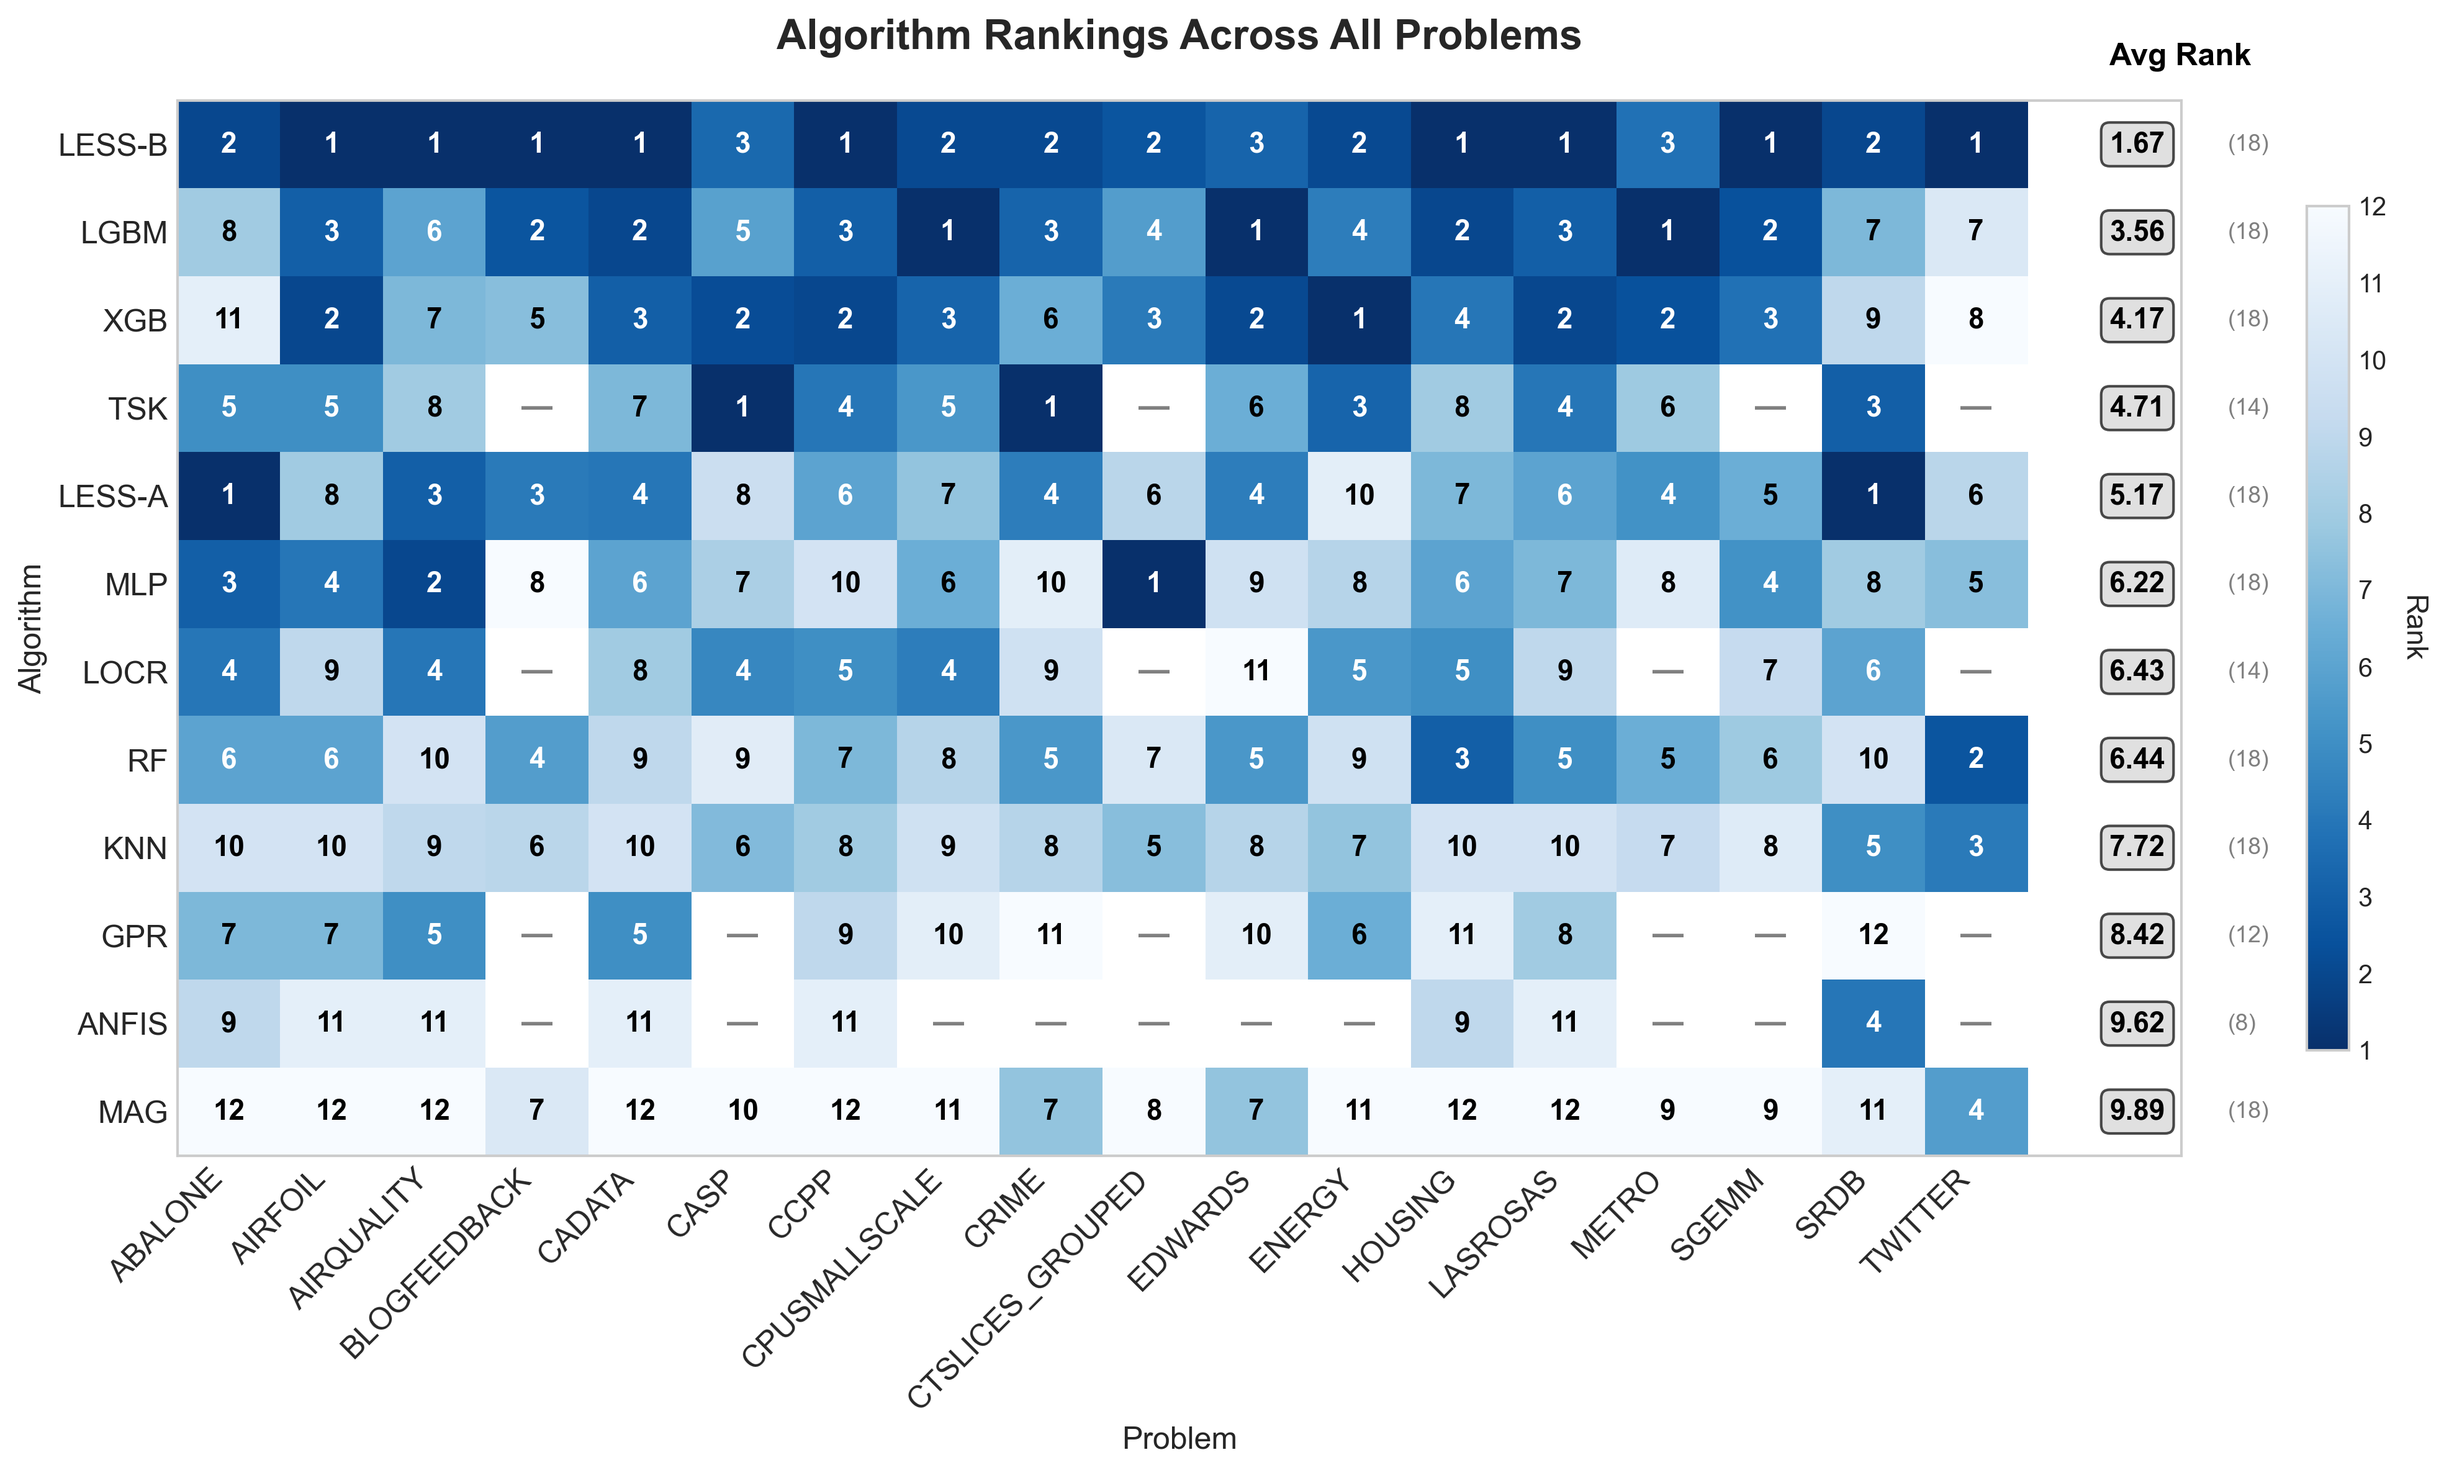
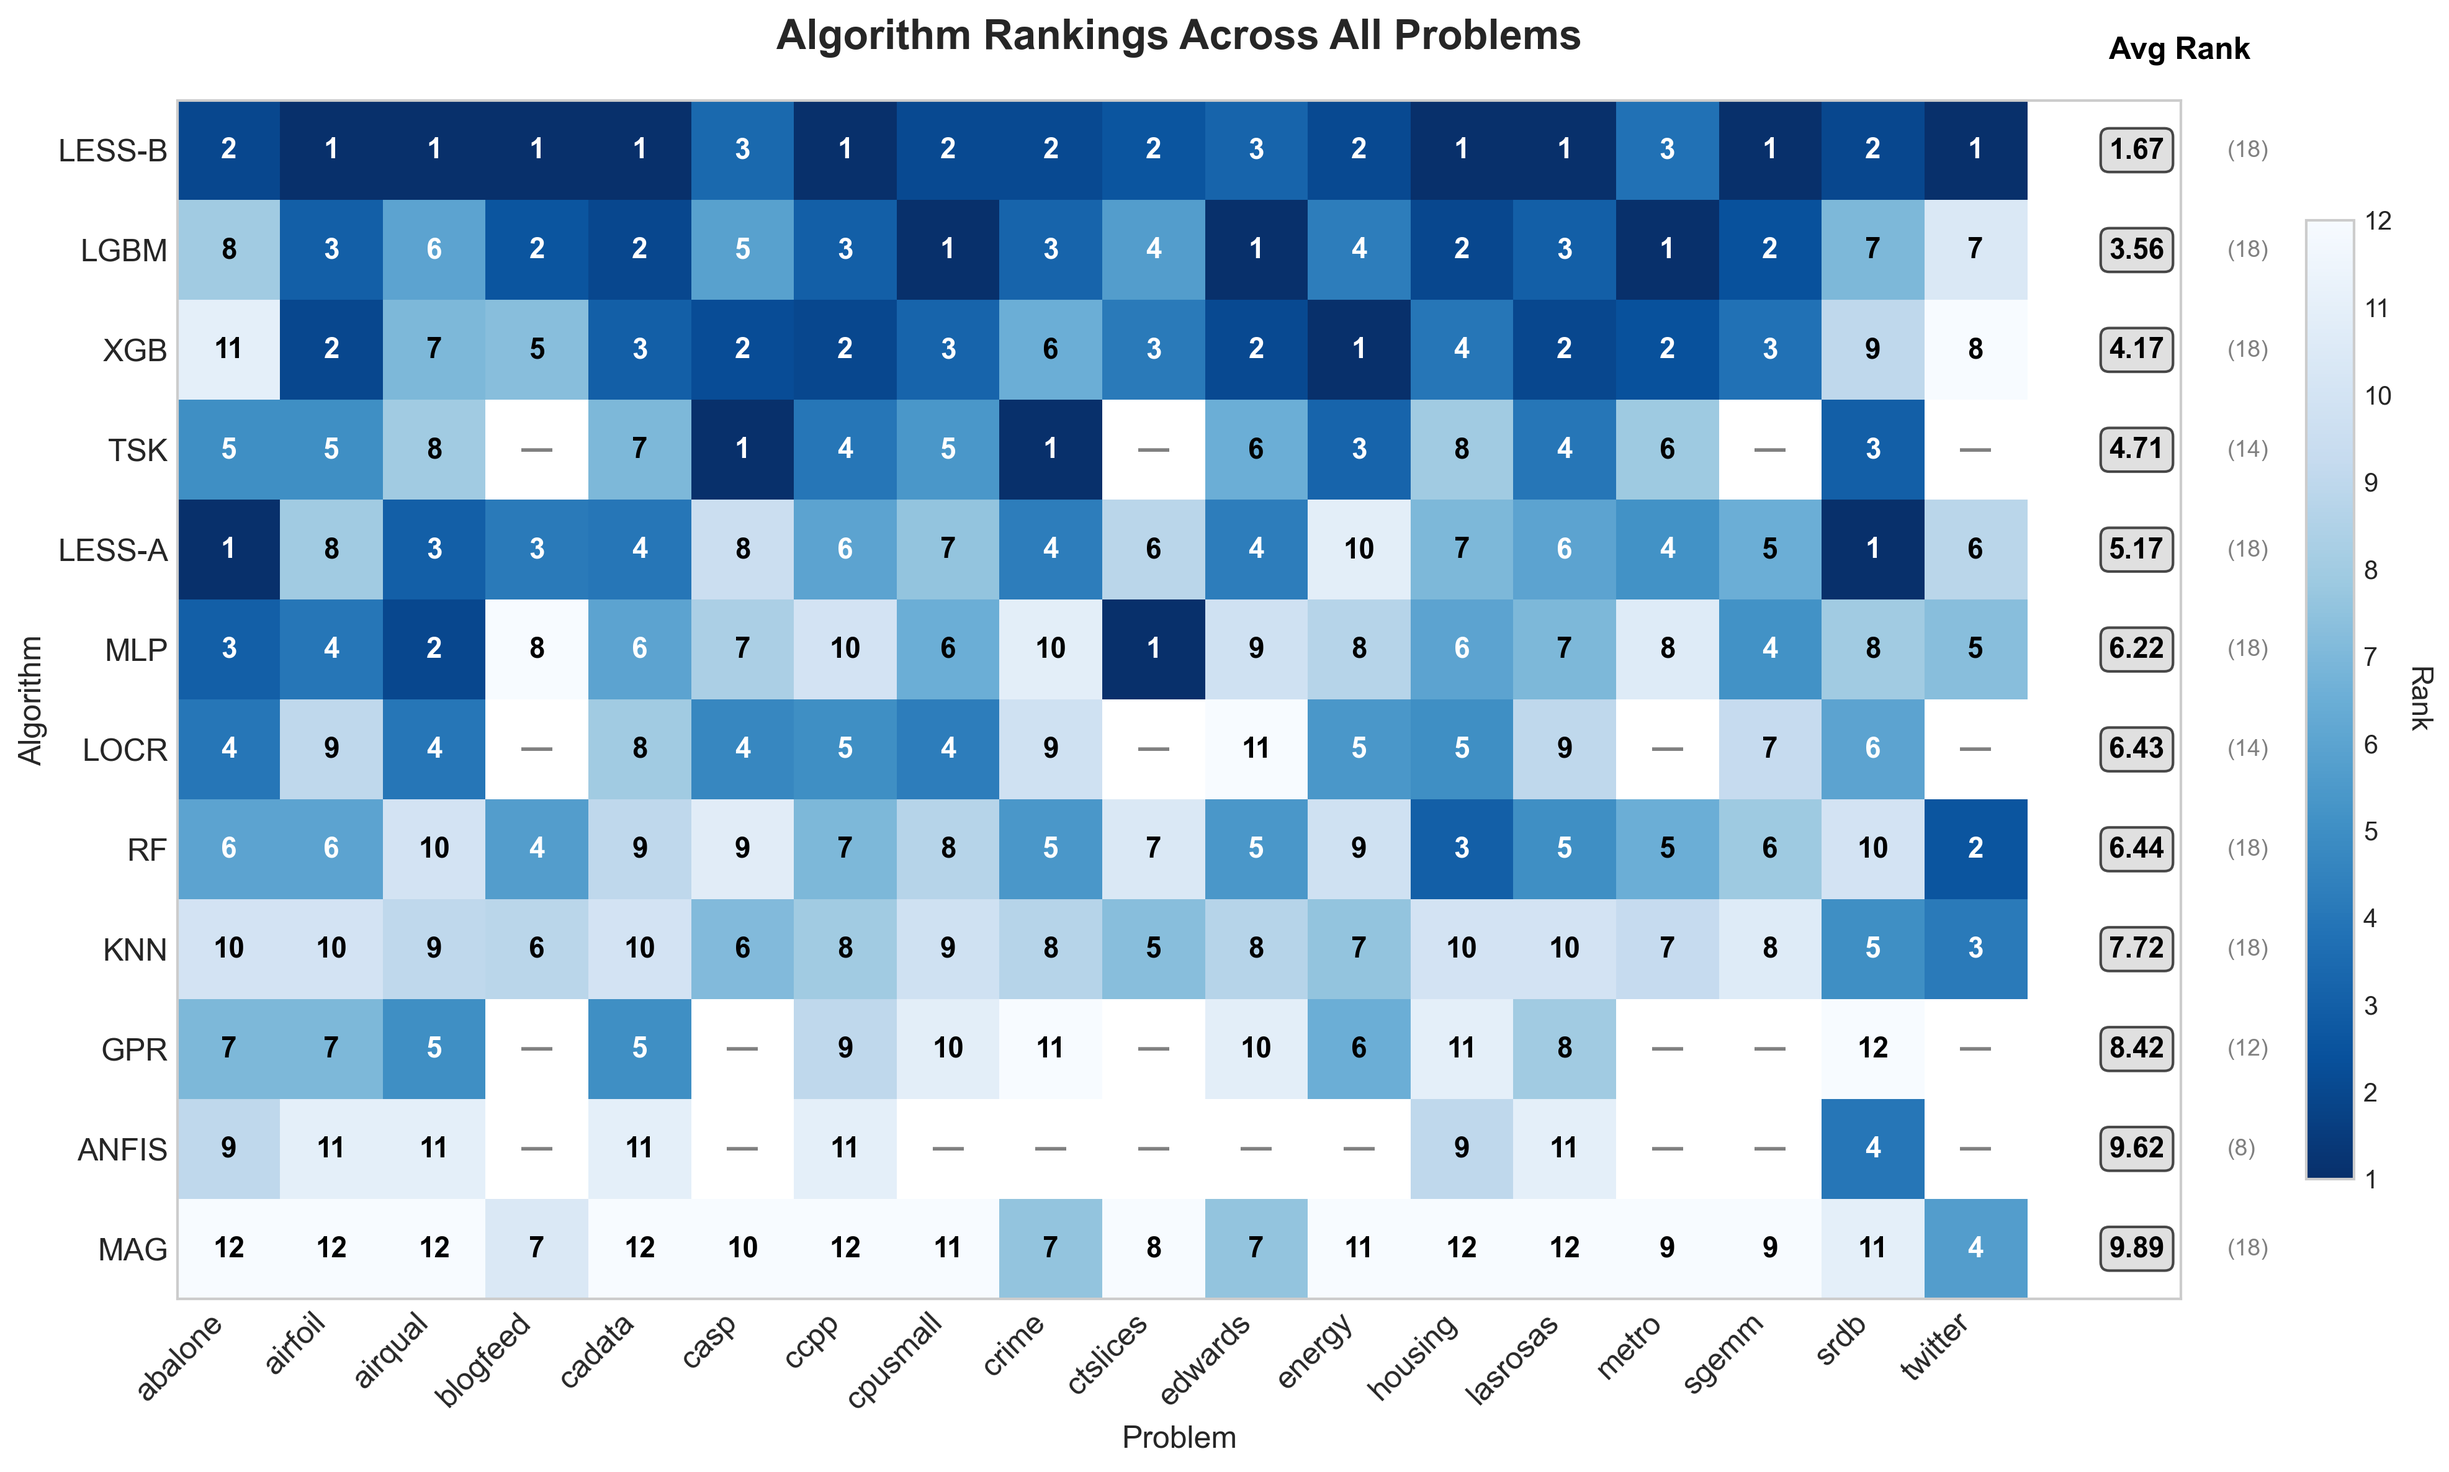
R3: dataset names in figures
Figures now use the dataset names of the text (airqual, blogfeed, cpusmall, ctslices, lowercase elsewhere). Rankings and timing figures regenerated; results unchanged.

diff --git a/plot_funcs/plot.py b/plot_funcs/plot.py
@@ -11,6 +11,7 @@ import matplotlib.pyplot as plt
 import numpy as np
 import seaborn as sns
 
+from src.names import display_name
 from src.problems import ALL_PROBLEMS
 from src.resultdirs import MAIN
 
@@ -173,7 +174,8 @@ def plot_rankings(algorithms, problems, ranking_matrix, avg_rankings,
 
     # Fix x-axis labels - Set ticks and labels properly
     ax.set_xticks(range(len(problems)))
-    ax.set_xticklabels(problems, rotation=45, ha="right", fontsize=12)
+    ax.set_xticklabels([display_name(p) for p in problems], rotation=45, ha="right",
+                       fontsize=12)
     ax.set_yticks(range(len(algorithms)))
     ax.set_yticklabels(algorithms, fontsize=12)
     ax.set_xlabel("Problem", fontsize=12)
@@ -368,7 +370,8 @@ def plot_scores(algorithms, problems, score_matrix, avg_rankings, title_suffix="
 
     # Customize axes
     ax.set_xticks(range(len(problems)))
-    ax.set_xticklabels(problems, rotation=45, ha="right", fontsize=10)
+    ax.set_xticklabels([display_name(p) for p in problems], rotation=45, ha="right",
+                       fontsize=10)
     ax.set_yticks(range(len(algorithms)))
     ax.set_yticklabels(algorithms, fontsize=10)
     ax.set_xlabel("Problem", fontsize=10)
@@ -478,7 +481,7 @@ def plot_problem_specific_results(all_results):
         )
 
         # Customize the plot
-        ax.set_title(f"{problem_name}", fontweight="bold", fontsize=14)
+        ax.set_title(display_name(problem_name), fontweight="bold", fontsize=14)
         ax.set_xlabel("Algorithm", fontsize=12)
         ax.set_ylabel("Problem Score (MSE)", fontsize=12)
         ax.set_xticks(range(len(algorithms)))

diff --git a/plot_funcs/timing_plot.py b/plot_funcs/timing_plot.py
@@ -9,6 +9,7 @@ import os
 import matplotlib.pyplot as plt
 import pandas as pd
 
+from src.names import display_name
 from src.resultdirs import TIMING
 
 # A bar of zero cannot be drawn on a log axis, so readings below FLOOR are
@@ -82,7 +83,7 @@ def plot_timing_results():
             ax.set_yscale("log")
             ax.set_xlabel("Number of Subsets", fontsize=16)
             ax.set_ylabel("Time (seconds, log scale)", fontsize=16)
-            ax.set_title(f"{problem_name}: LESS Fit and Predict", fontsize=18)
+            ax.set_title(f"{display_name(problem_name)}: LESS Fit and Predict", fontsize=18)
             ax.tick_params(labelsize=14)
             ax.grid(True, which="both", ls="--", linewidth=0.5)
             ax.legend(fontsize=14)
@@ -142,7 +143,7 @@ def plot_timing_results():
             ax.set_xlim(-0.8, len(df) - 0.2)
             ax.set_ylabel("Time (seconds, log scale)", fontsize=18)
             ax.set_xlabel("")
-            ax.set_title(f"{problem_name}: Fit and Predict", fontsize=20)
+            ax.set_title(f"{display_name(problem_name)}: Fit and Predict", fontsize=20)
             ax.tick_params(axis="y", labelsize=16)
             ax.legend(fontsize=12, ncol=2)
             fig.tight_layout()

diff --git a/plot_funcs/plot_incremental.py b/plot_funcs/plot_incremental.py
@@ -7,6 +7,7 @@ import matplotlib.pyplot as plt
 import numpy as np
 import seaborn as sns
 
+from src.names import display_name
 from src.resultdirs import INCREMENTAL
 
 # Set up plotting style
@@ -64,11 +65,8 @@ def _complete_problems(result_dir, n_arms=8, n_folds=4):
 
 
 def _label(name):
-    """Short axis label: eighteen names do not fit at full length."""
-    key = name.replace("_GROUPED", "").lower()
-    short = {"cpusmallscale": "cpusmall", "blogfeedback": "blogfeed",
-             "airquality": "airqual"}
-    return short.get(key, key)
+    """Axis label: the paper name of the problem."""
+    return display_name(name)
 
 
 PROBLEMS = _complete_problems(INCREMENTAL)

diff --git a/plot_funcs/plot_ablation.py b/plot_funcs/plot_ablation.py
@@ -7,6 +7,7 @@ import matplotlib.pyplot as plt
 import numpy as np
 import seaborn as sns
 
+from src.names import display_name
 from src.resultdirs import ABLATION
 
 # Set plot style
@@ -66,11 +67,8 @@ def _complete_problems(result_dir, n_arms=8, n_folds=4):
 
 
 def _label(name):
-    """Short axis label: eighteen names do not fit at full length."""
-    key = name.replace("_GROUPED", "").lower()
-    short = {"cpusmallscale": "cpusmall", "blogfeedback": "blogfeed",
-             "airquality": "airqual"}
-    return short.get(key, key)
+    """Axis label: the paper name of the problem."""
+    return display_name(name)
 
 
 def load_results(save_dir=ABLATION):

diff --git a/plot_funcs/plot_variants.py b/plot_funcs/plot_variants.py
@@ -6,6 +6,7 @@ import os
 import matplotlib.pyplot as plt
 import numpy as np
 
+from src.names import display_name
 from src.resultdirs import VARIANTS
 
 # Set up plotting style
@@ -57,11 +58,8 @@ def _complete_problems(result_dir, n_arms=8, n_folds=4):
 
 
 def _label(name):
-    """Short axis label: the long names collide even when turned."""
-    key = name.replace("_GROUPED", "").lower()
-    short = {"cpusmallscale": "cpusmall", "blogfeedback": "blogfeed",
-             "airquality": "airqual"}
-    return short.get(key, key)
+    """Axis label: the paper name of the problem."""
+    return display_name(name)
 
 
 problems = _complete_problems(VARIANTS)

diff --git a/tools/plot_ranks_mse.py b/tools/plot_ranks_mse.py
@@ -19,6 +19,7 @@ import matplotlib.pyplot as plt
 import numpy as np
 import pandas as pd
 
+from src.names import display_name
 from src.problems import ALL_PROBLEMS
 from src.resultdirs import MAIN
 
@@ -105,7 +106,7 @@ def main():
     ax.set_xticks(range(len(order)))
     ax.set_xticklabels([f"{m}\n({coverage[m]})" for m in order], fontsize=9)
     ax.set_yticks(range(len(problems)))
-    ax.set_yticklabels([p.replace("_GROUPED", "").lower() for p in problems], fontsize=9)
+    ax.set_yticklabels([display_name(p) for p in problems], fontsize=9)
     ax.set_xlabel("method (problems scored)", fontsize=10)
 
     avg = ranks.mean()

diff --git a/src/names.py b/src/names.py
@@ -1,0 +1,9 @@
+"""Dataset names as they appear in the paper's text, tables and figures."""
+
+SHORT = {"airquality": "airqual", "blogfeedback": "blogfeed", "cpusmallscale": "cpusmall"}
+
+
+def display_name(problem):
+    """Paper name of a problem key, e.g. CTSLICES_GROUPED -> ctslices."""
+    key = problem.replace("_GROUPED", "").lower()
+    return SHORT.get(key, key)
